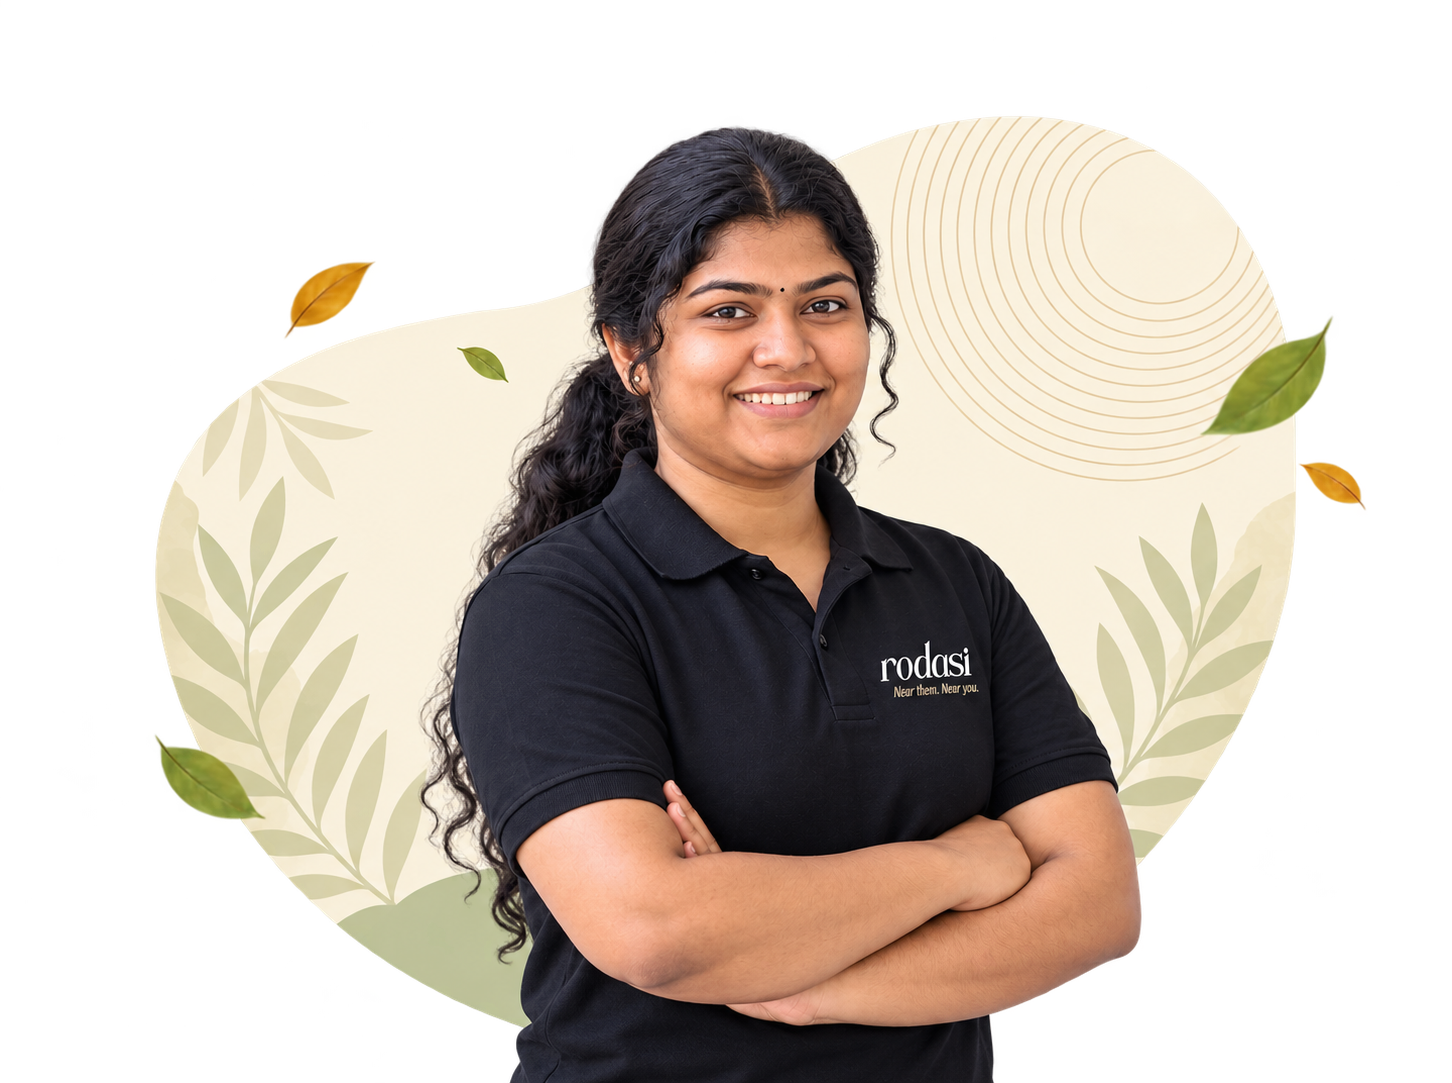
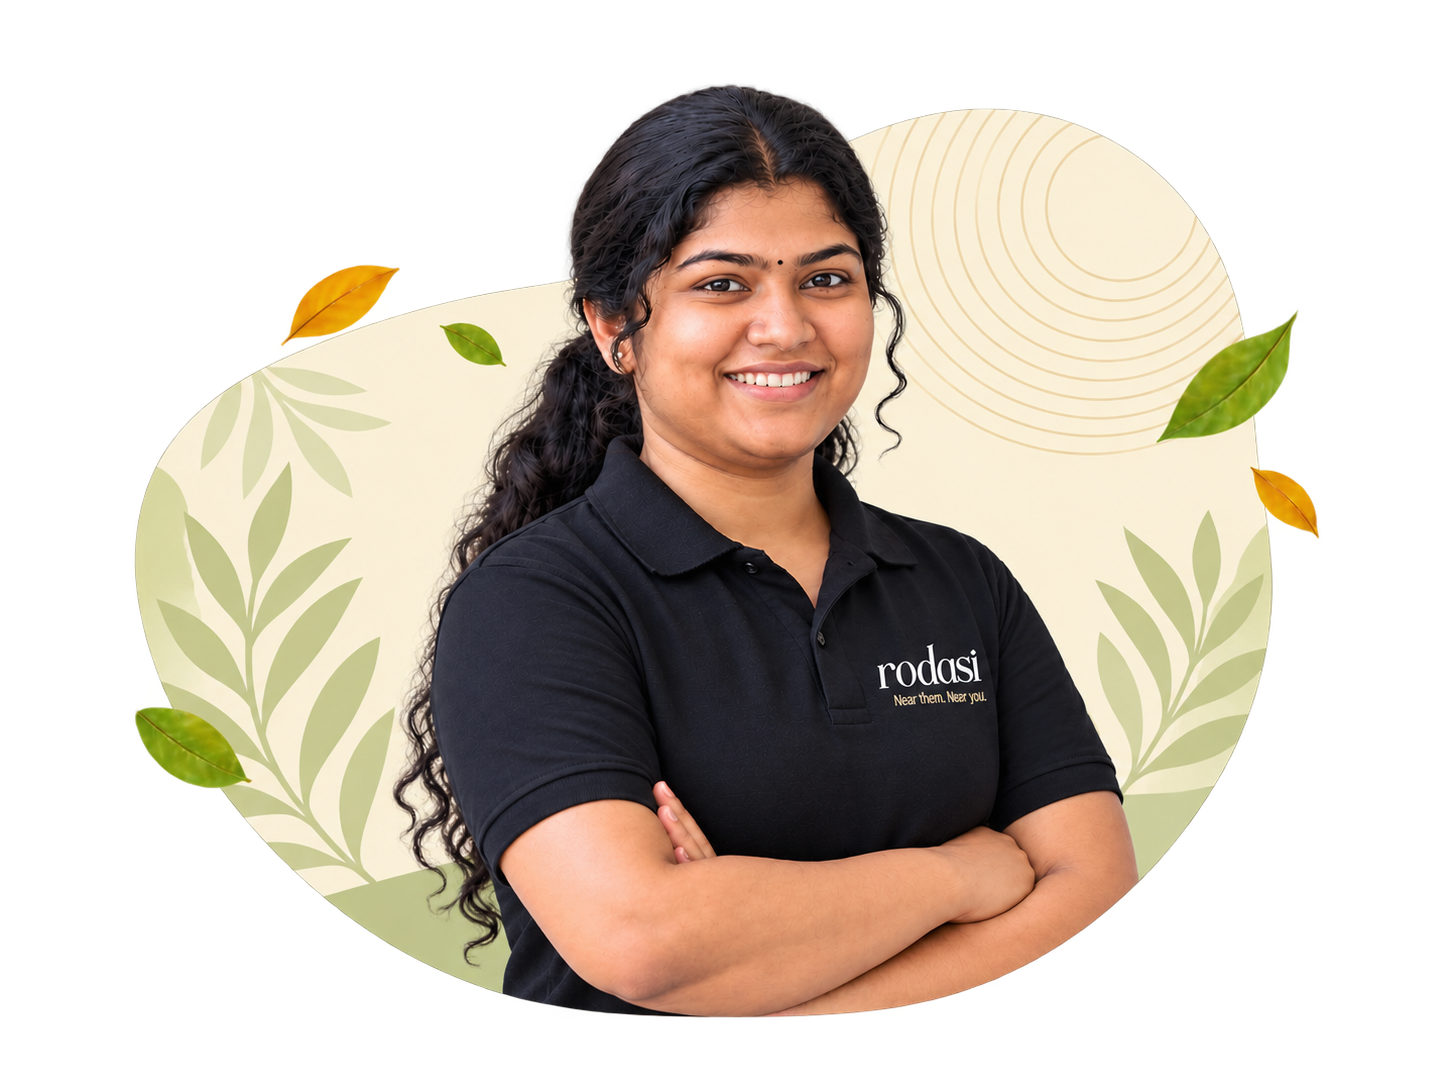
Double hero image size for desktop/larger screens while keeping phone unchanged

diff --git a/components/DesktopHome.tsx b/components/DesktopHome.tsx
@@ -405,9 +405,9 @@ export default function DesktopHome() {
         <div className="absolute bottom-10 right-10 w-96 h-96 rounded-full bg-[#F5D328]/10 blur-3xl pointer-events-none" />
 
         <div className="max-w-[1400px] mx-auto px-4 sm:px-6 lg:px-8">
-          <div className="grid grid-cols-12 gap-8 lg:gap-14 items-center">
+          <div className="grid grid-cols-12 gap-8 lg:gap-10 items-center">
             {/* Left Column: Typography & Action */}
-            <div className="col-span-12 md:col-span-6 text-left space-y-6">
+            <div className="col-span-12 lg:col-span-5 text-left space-y-6">
               {/* Badges: Founding Status */}
               <div className="flex flex-wrap items-center gap-2">
                 <div className="inline-flex items-center gap-2 px-3.5 py-1.5 rounded-full bg-[#183825] border border-[#F5D328]/25 text-[#EBF2E8] text-xs font-semibold">
@@ -467,28 +467,28 @@ export default function DesktopHome() {
               </div>
             </div>
 
-            {/* Right Column: Clean Transparent Visual Blending into Hero */}
-            <div className="col-span-12 md:col-span-6 flex flex-col items-center md:items-end justify-center">
-              <div className="relative w-full max-w-[480px] lg:max-w-[540px]">
+            {/* Right Column: Clean Transparent Visual Blending into Hero (Doubled Scale for Bigger Screens) */}
+            <div className="col-span-12 lg:col-span-7 flex flex-col items-center lg:items-end justify-center">
+              <div className="relative w-full max-w-[680px] lg:max-w-[850px] xl:max-w-[960px]">
                 {/* Ambient Warm & Emerald Glow */}
-                <div className="absolute top-1/2 left-1/2 -translate-x-1/2 -translate-y-1/2 w-96 h-96 bg-[#F5D328]/15 rounded-full blur-3xl pointer-events-none" />
+                <div className="absolute top-1/2 left-1/2 -translate-x-1/2 -translate-y-1/2 w-[500px] h-[500px] lg:w-[680px] lg:h-[680px] bg-[#F5D328]/15 rounded-full blur-3xl pointer-events-none" />
 
-                {/* Entire Transparent Cutout Image - Blends directly with hero background */}
+                {/* Entire Transparent Cutout Image - Doubled visual scale, blends directly with hero background */}
                 <div className="relative">
                   <img
                     src="/images/hero1.png"
                     alt="Rodasi Care Buddy with elderly parent in Kerala"
-                    className="w-full h-auto object-contain drop-shadow-[0_25px_35px_rgba(0,0,0,0.5)] select-none"
+                    className="w-full h-auto object-contain drop-shadow-[0_30px_50px_rgba(0,0,0,0.55)] select-none"
                   />
 
                   {/* Police-verified badge */}
-                  <div className="absolute top-3 left-3 px-3.5 py-1.5 rounded-full bg-[#F5D328] text-[#122116] font-extrabold text-xs tracking-tight flex items-center gap-1.5 shadow-xl shadow-black/50 z-20">
-                    <ShieldCheck className="w-4 h-4 text-[#122116]" />
+                  <div className="absolute top-3 left-3 sm:top-5 sm:left-5 px-3.5 sm:px-4 py-1.5 sm:py-2 rounded-full bg-[#F5D328] text-[#122116] font-extrabold text-xs sm:text-sm tracking-tight flex items-center gap-1.5 sm:gap-2 shadow-xl shadow-black/50 z-20">
+                    <ShieldCheck className="w-4 h-4 sm:w-5 sm:h-5 text-[#122116]" />
                     <span>Police-verified</span>
                   </div>
 
                   {/* Floating WhatsApp Voice Briefing Card at bottom */}
-                  <div className="absolute bottom-2 left-2 right-2 sm:left-4 sm:right-4 bg-[#183825]/95 backdrop-blur-md border border-[#F5D328]/35 rounded-2xl p-3 sm:p-3.5 shadow-2xl z-20">
+                  <div className="absolute bottom-2 left-2 right-2 sm:left-auto sm:right-4 sm:bottom-4 sm:max-w-md bg-[#183825]/95 backdrop-blur-md border border-[#F5D328]/35 rounded-2xl p-3 sm:p-4 shadow-2xl z-20">
                     <div className="flex items-center gap-3">
                       <div className="w-10 h-10 rounded-xl bg-[#25D366]/20 border border-[#25D366]/40 flex items-center justify-center shrink-0">
                         <Mic className="w-5 h-5 text-[#25D366]" />
